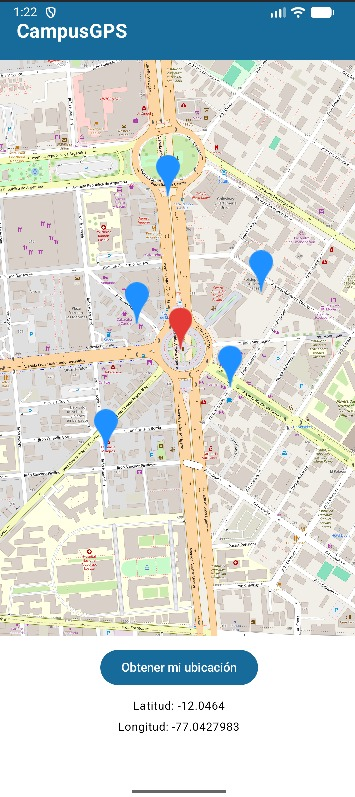
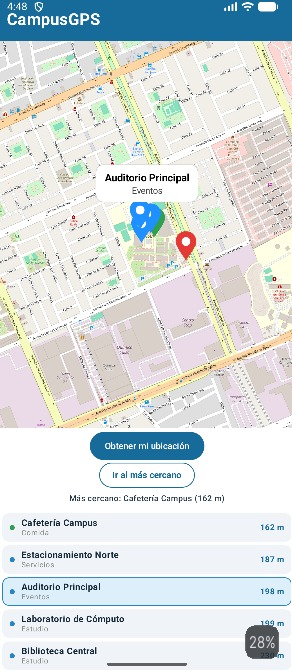
Corrige ubicaciones de TECSUP y actualiza recursos de CampusGPS

diff --git a/Semana 13/CampusGPS/app/src/main/java/com/alvarez/campusgps/data/LugaresRepositoryLocal.kt b/Semana 13/CampusGPS/app/src/main/java/com/alvarez/campusgps/data/LugaresRepositoryLocal.kt
@@ -5,10 +5,10 @@ import com.alvarez.campusgps.model.Lugar
 class LugaresRepositoryLocal : LugaresRepository {
 
     override fun obtenerLugares(): List<Lugar> = listOf(
-        Lugar(1, "Biblioteca Central", "Estudio", -12.0460, -77.0435),
-        Lugar(2, "Cafetería Campus", "Comida", -12.0470, -77.0420),
-        Lugar(3, "Laboratorio de Cómputo", "Estudio", -12.0455, -77.0415),
-        Lugar(4, "Auditorio Principal", "Eventos", -12.0480, -77.0440),
-        Lugar(5, "Estacionamiento Norte", "Servicios", -12.0440, -77.0430)
+        Lugar(1, "Biblioteca Central", "Estudio", -12.04370, -76.95320),
+        Lugar(2, "Cafetería Campus", "Comida", -12.04400, -76.95265),
+        Lugar(3, "Laboratorio de Cómputo", "Estudio", -12.04420, -76.95315),
+        Lugar(4, "Auditorio Principal", "Eventos", -12.04385, -76.95295),
+        Lugar(5, "Estacionamiento Norte", "Servicios", -12.043834, -76.952806)
     )
 }
